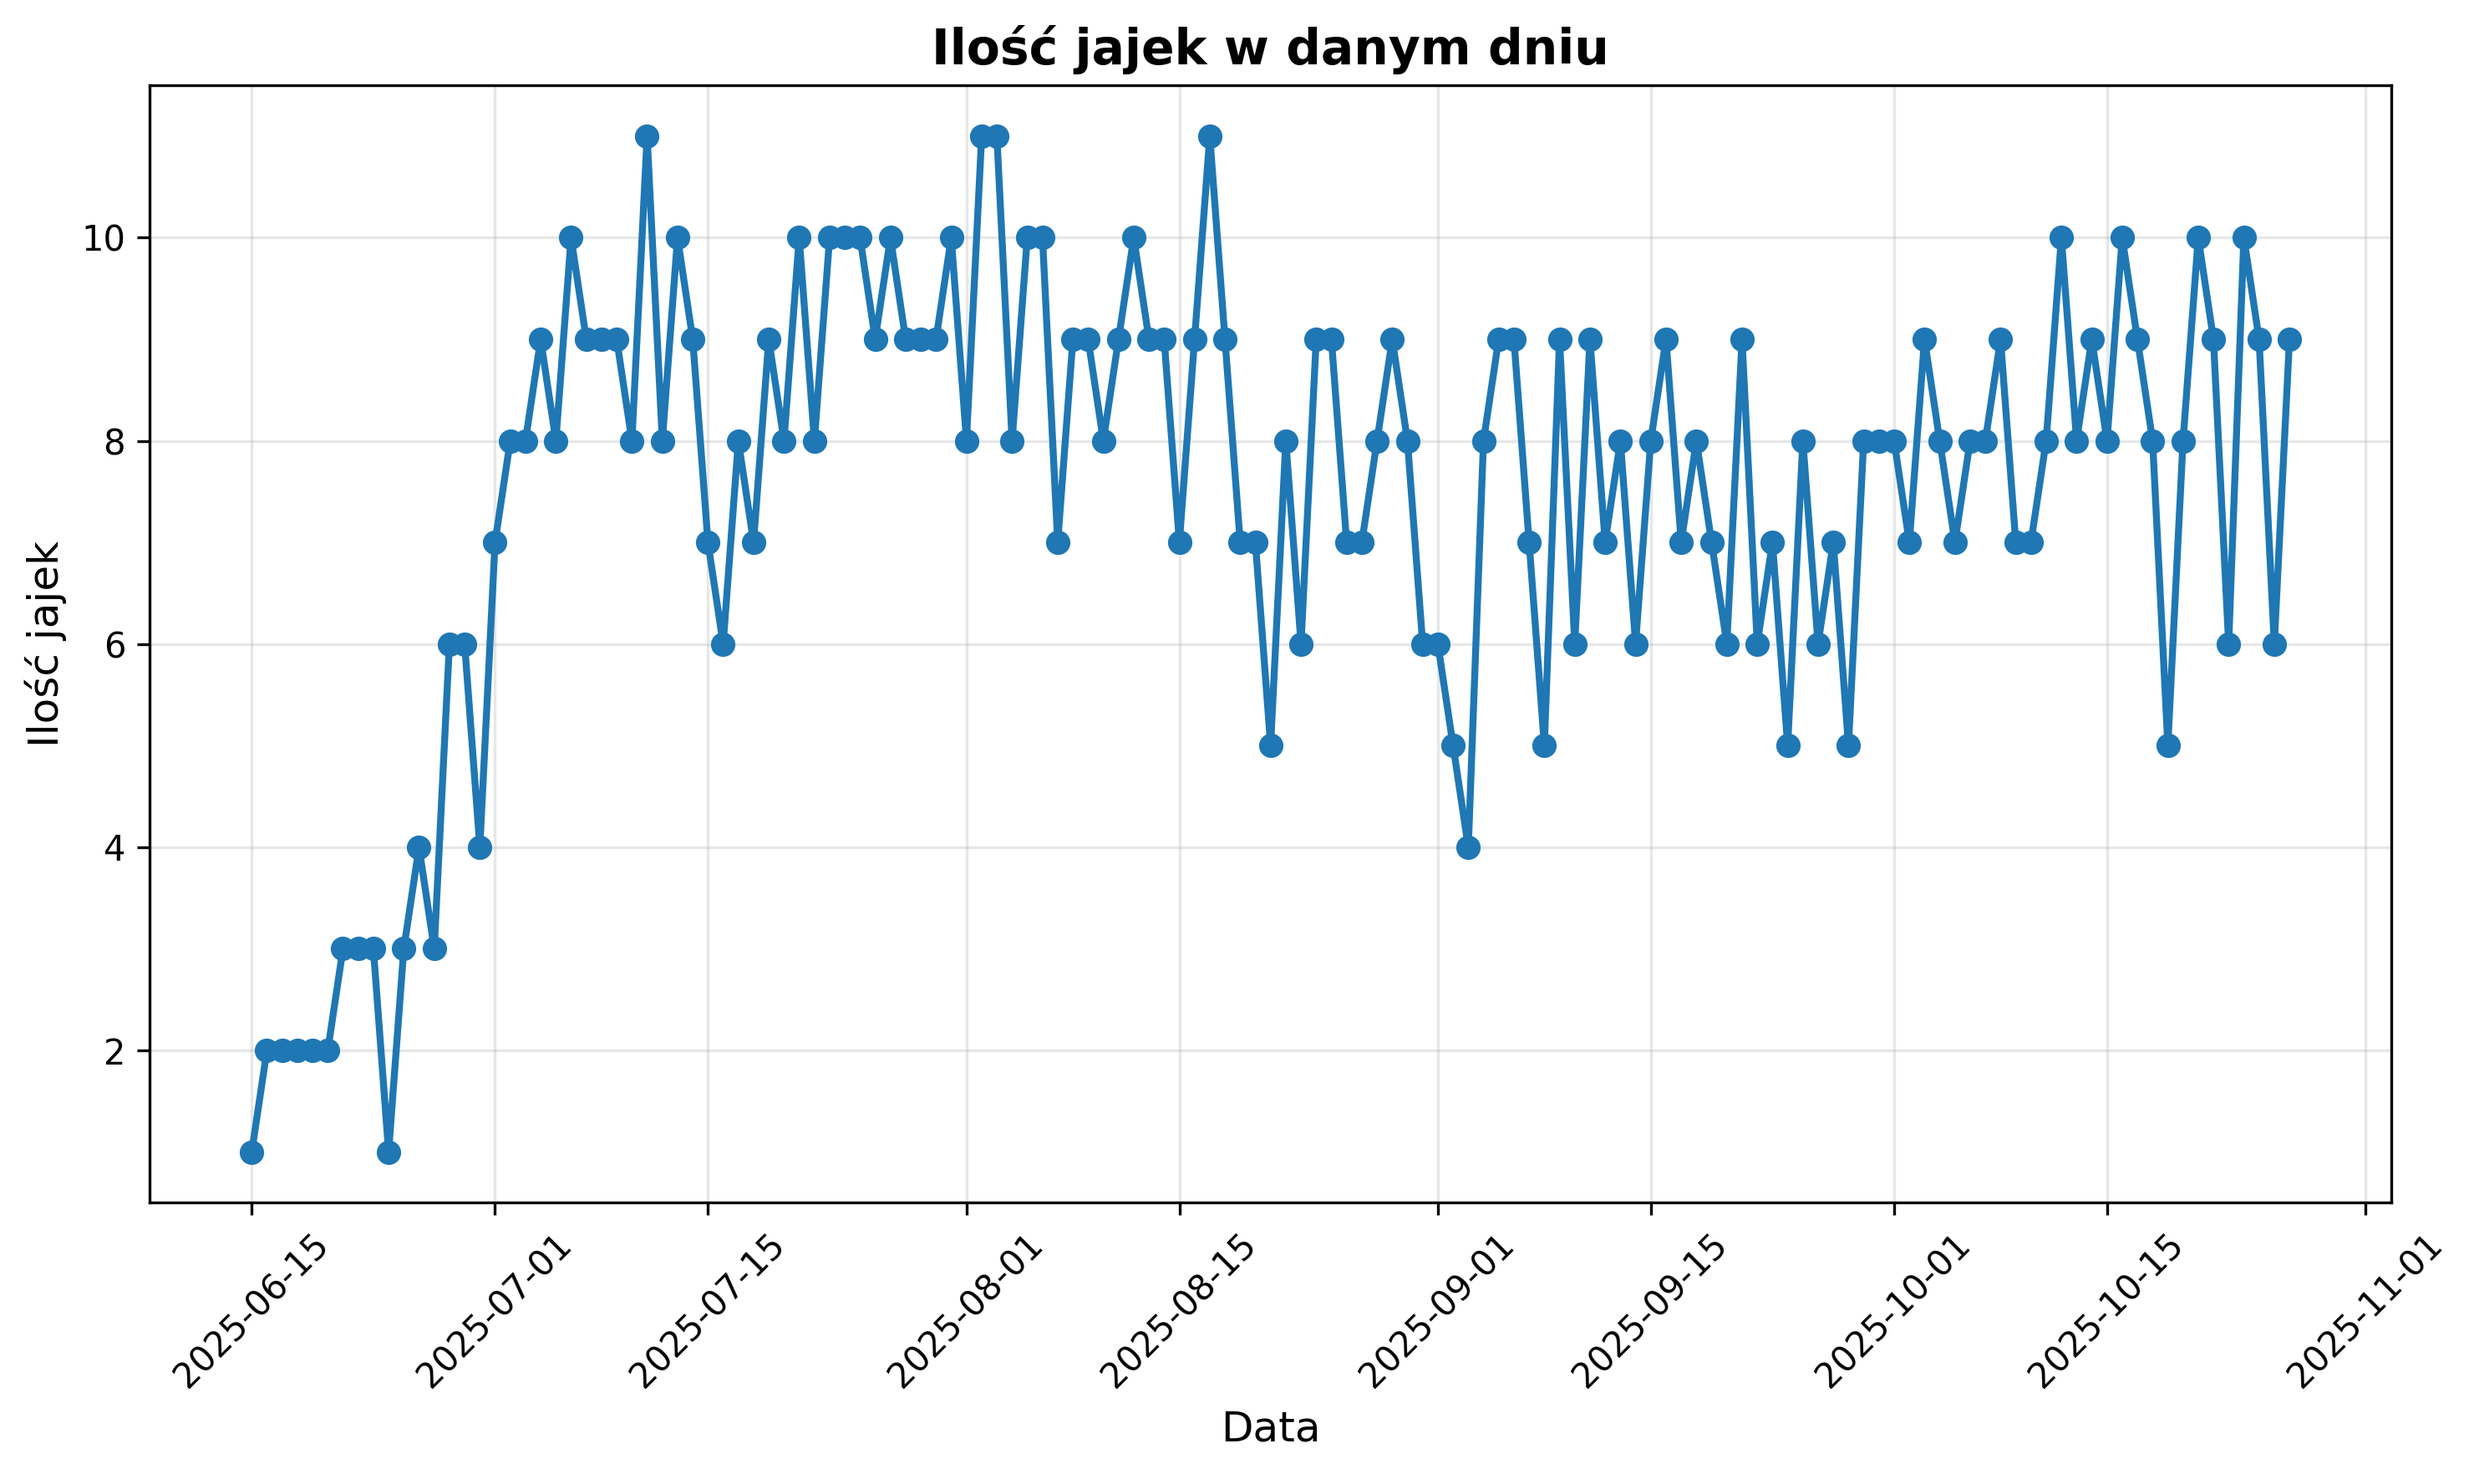
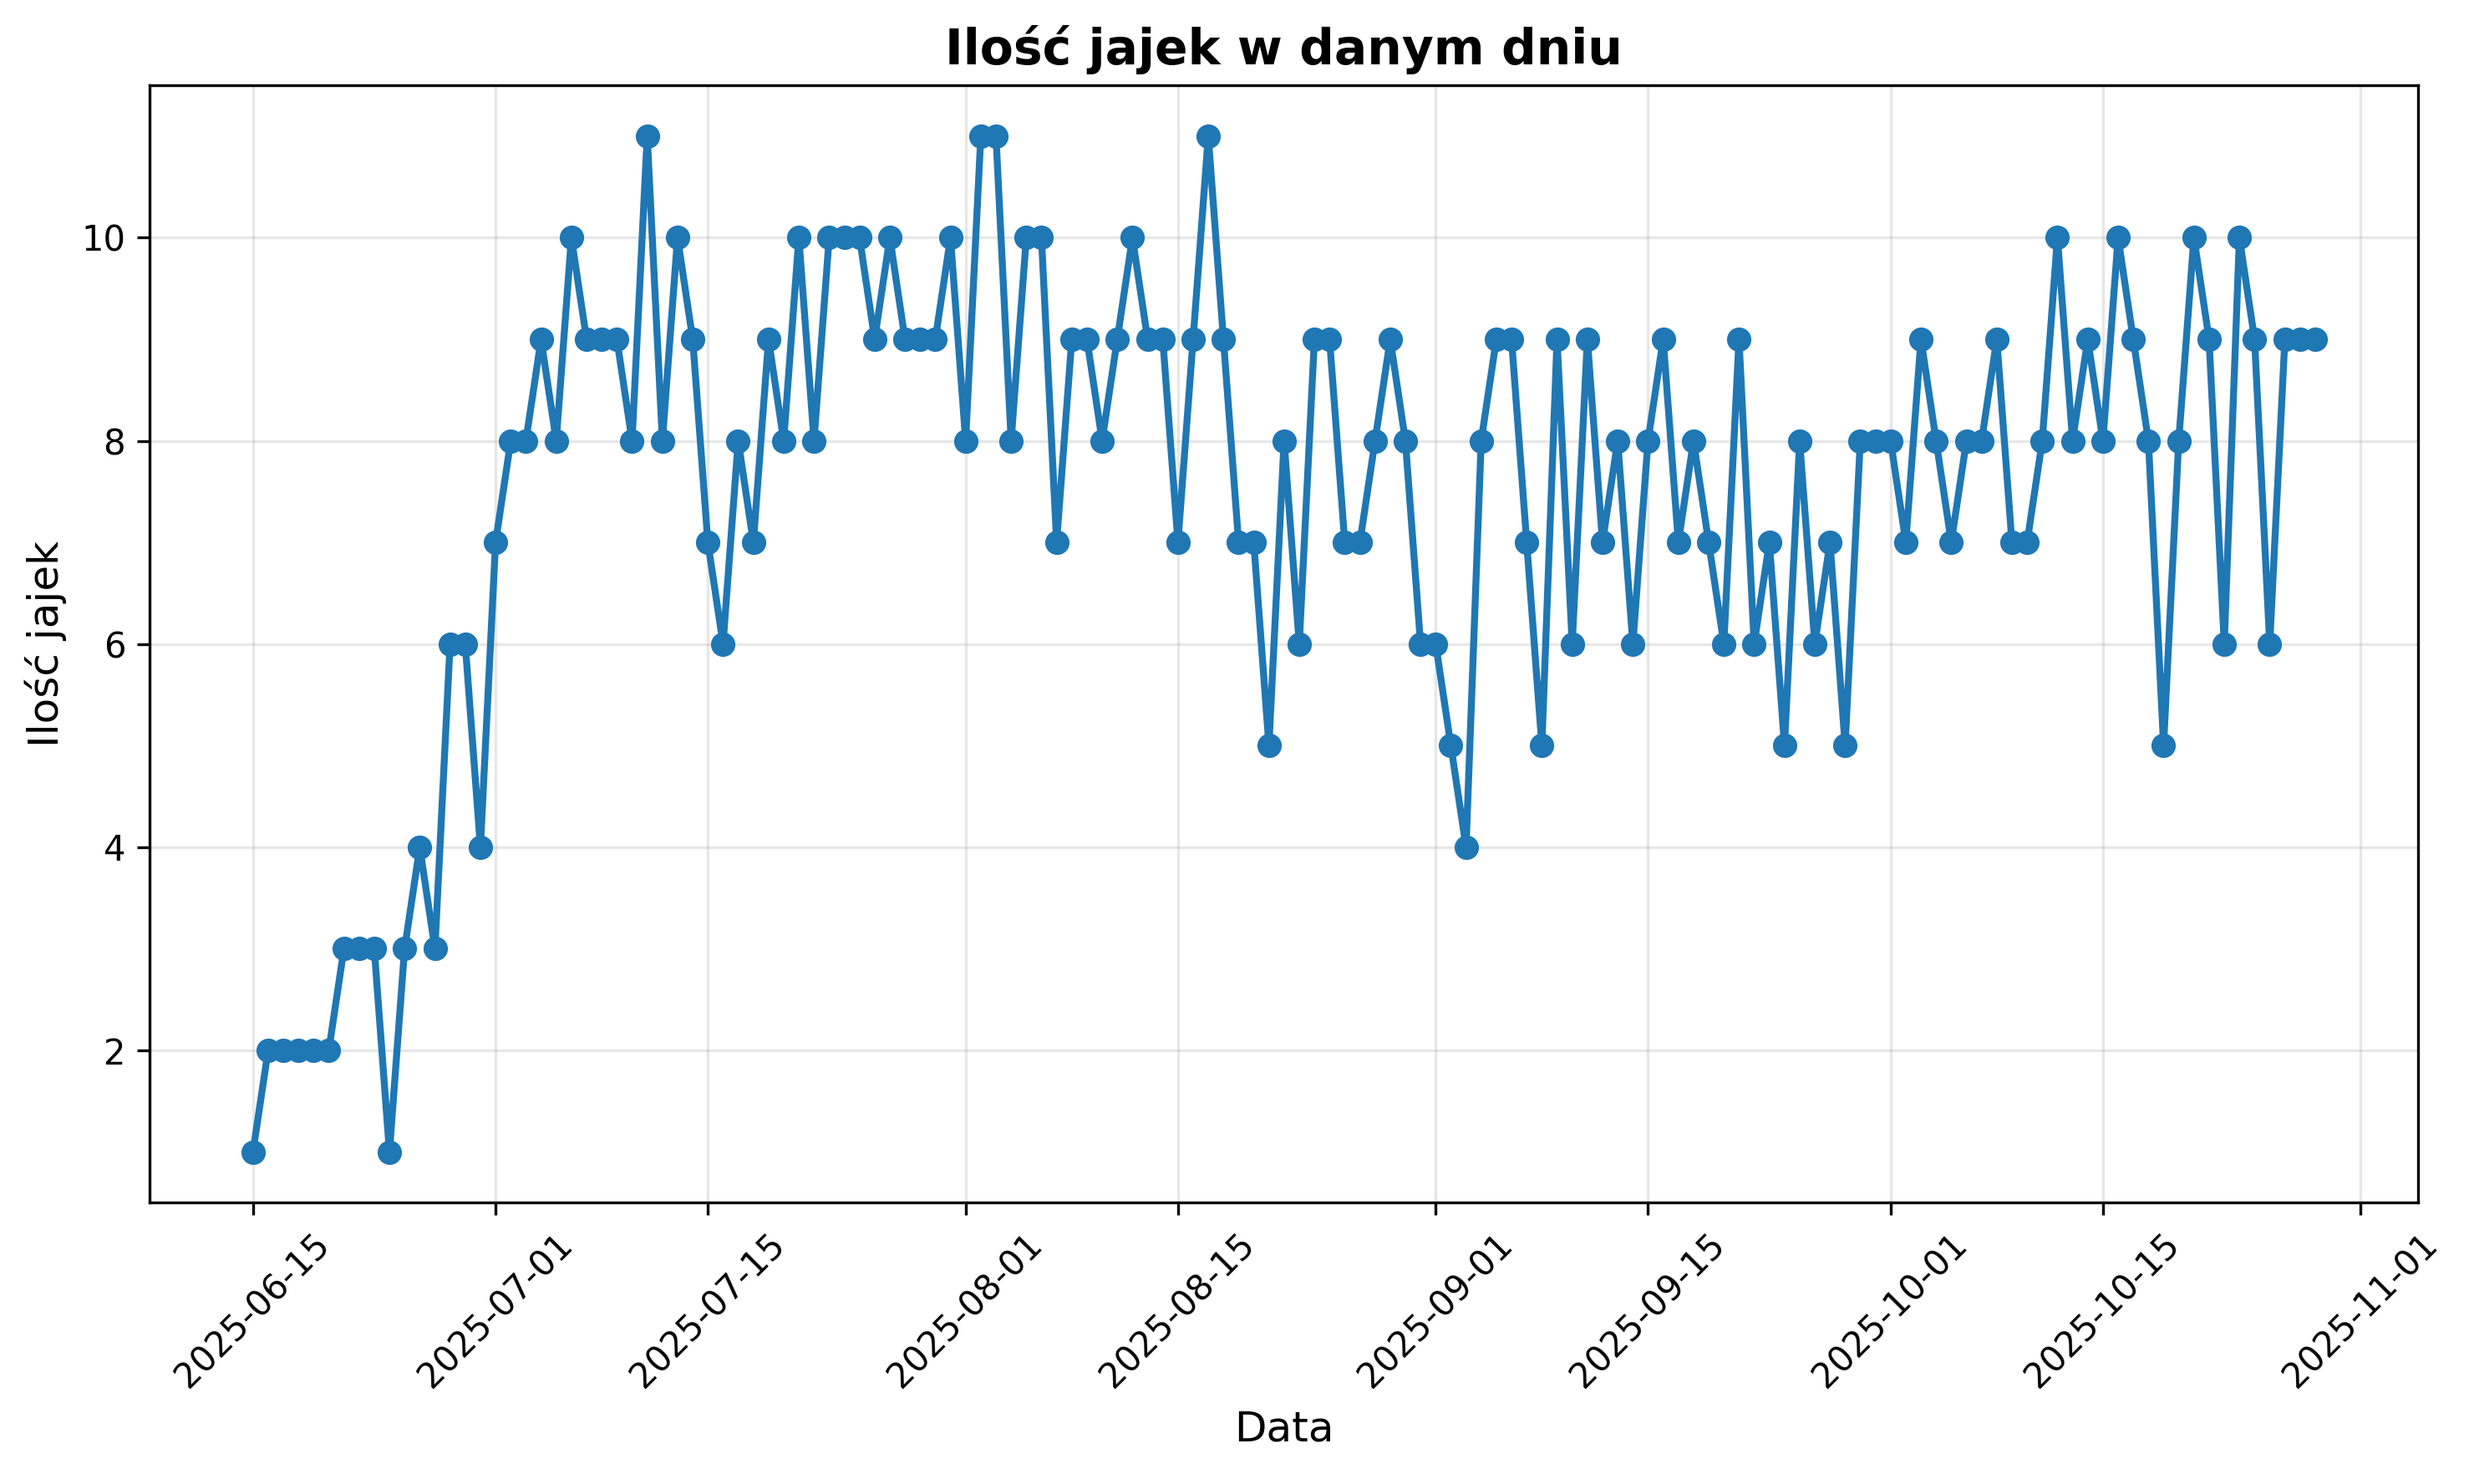
Chart update

diff --git a/jajka.html b/jajka.html
@@ -7,7 +7,7 @@
 </head>
 <body>
     <div style="font-size: 20px; font-style: italic;">Ostatnia aktualizacja:</div>
-    <div style="font-size: 18px; font-style: italic; color: red;">2025-10-27 16:34:43</div>
+    <div style="font-size: 18px; font-style: italic; color: red;">2025-10-29 20:34:40</div>
     <img src="img/chart.png" alt="" style="width: 100vw; height: 100vh; object-fit: contain; display: block; margin: 0 auto; position: absolute; top: 50%; left: 50%; transform: translate(-50%, -50%);">
 </body>
 </html>
